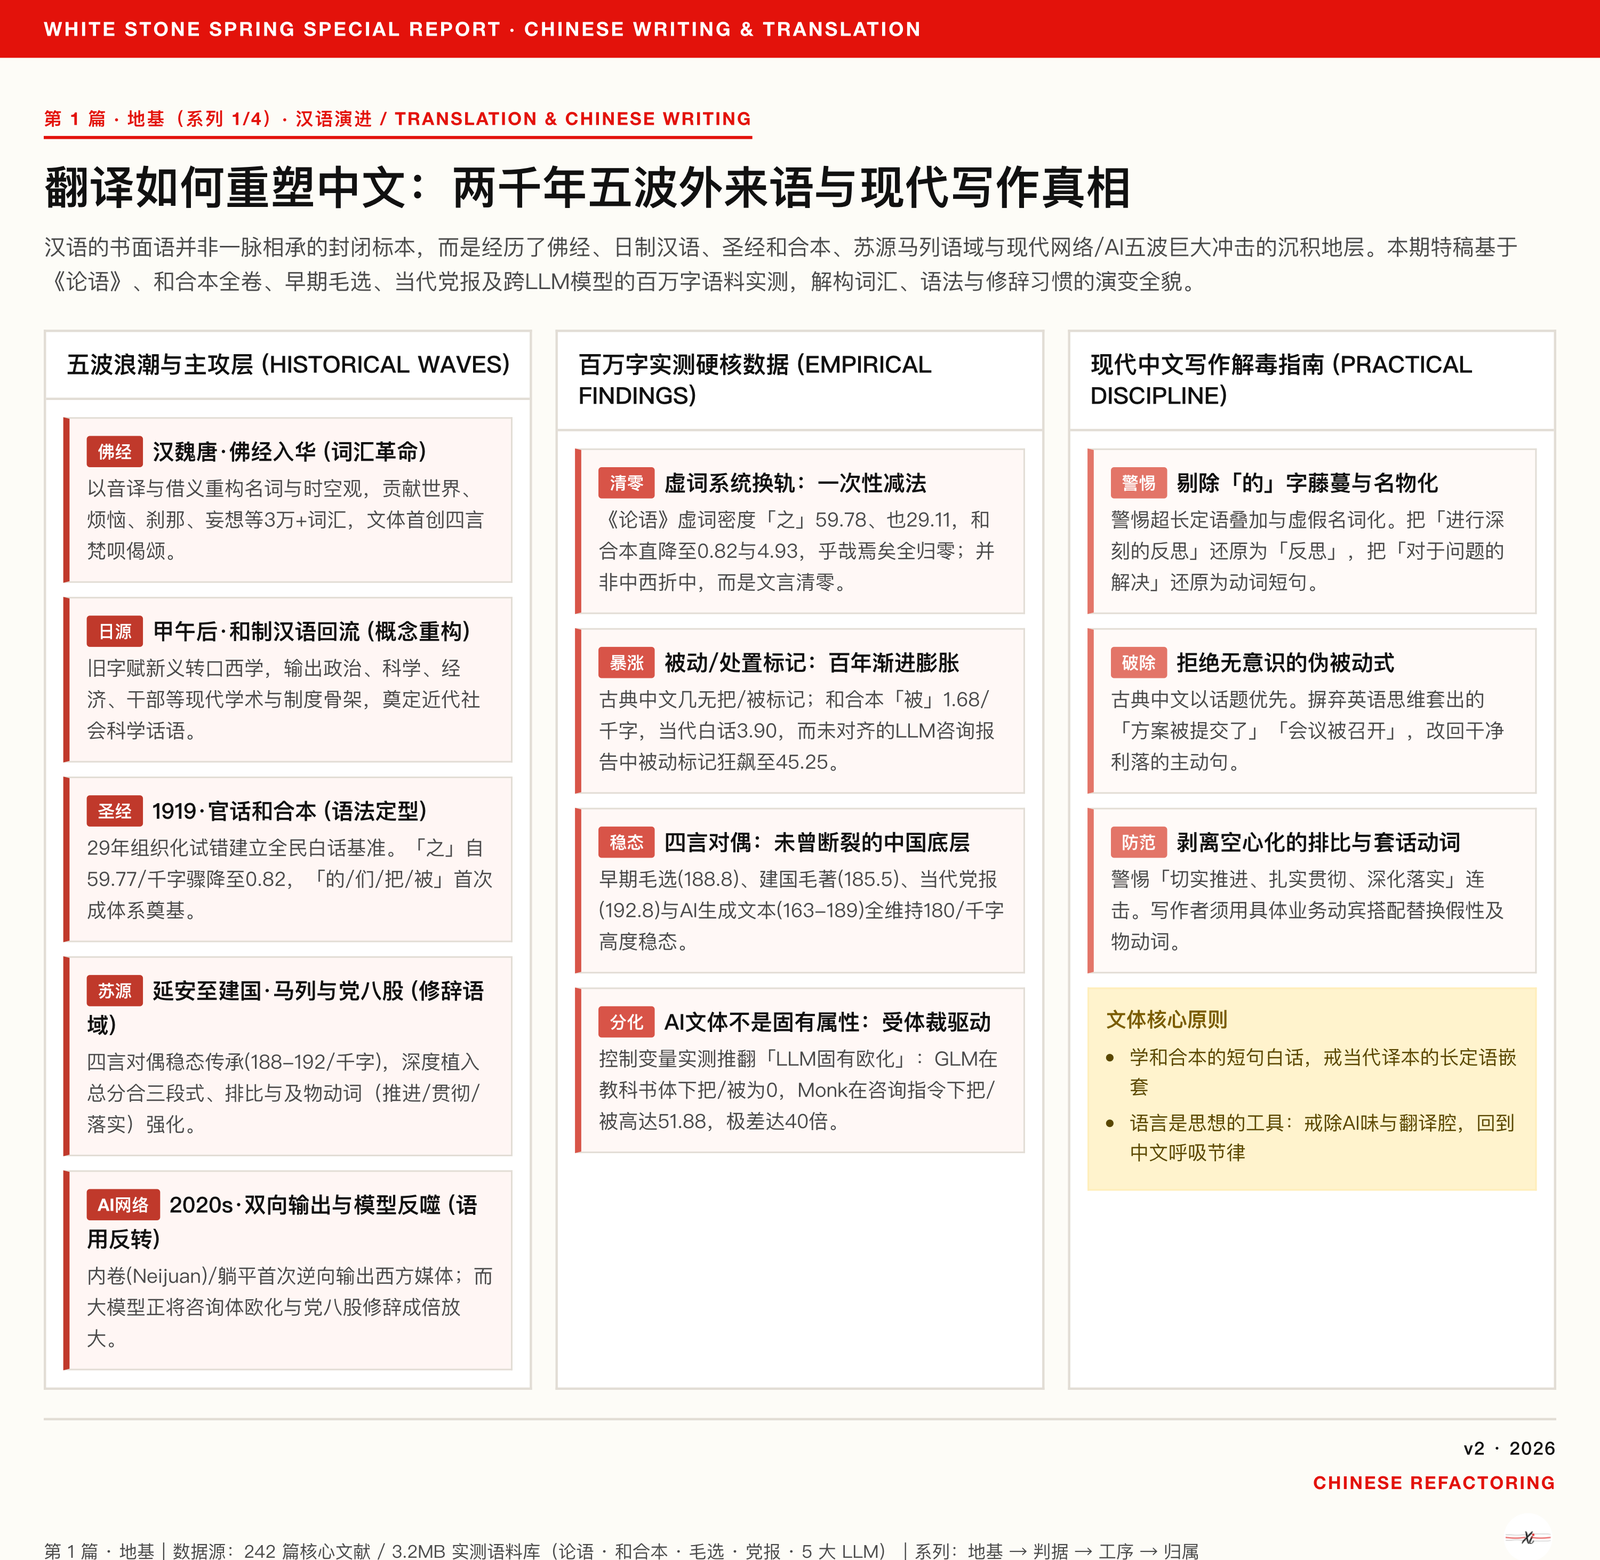
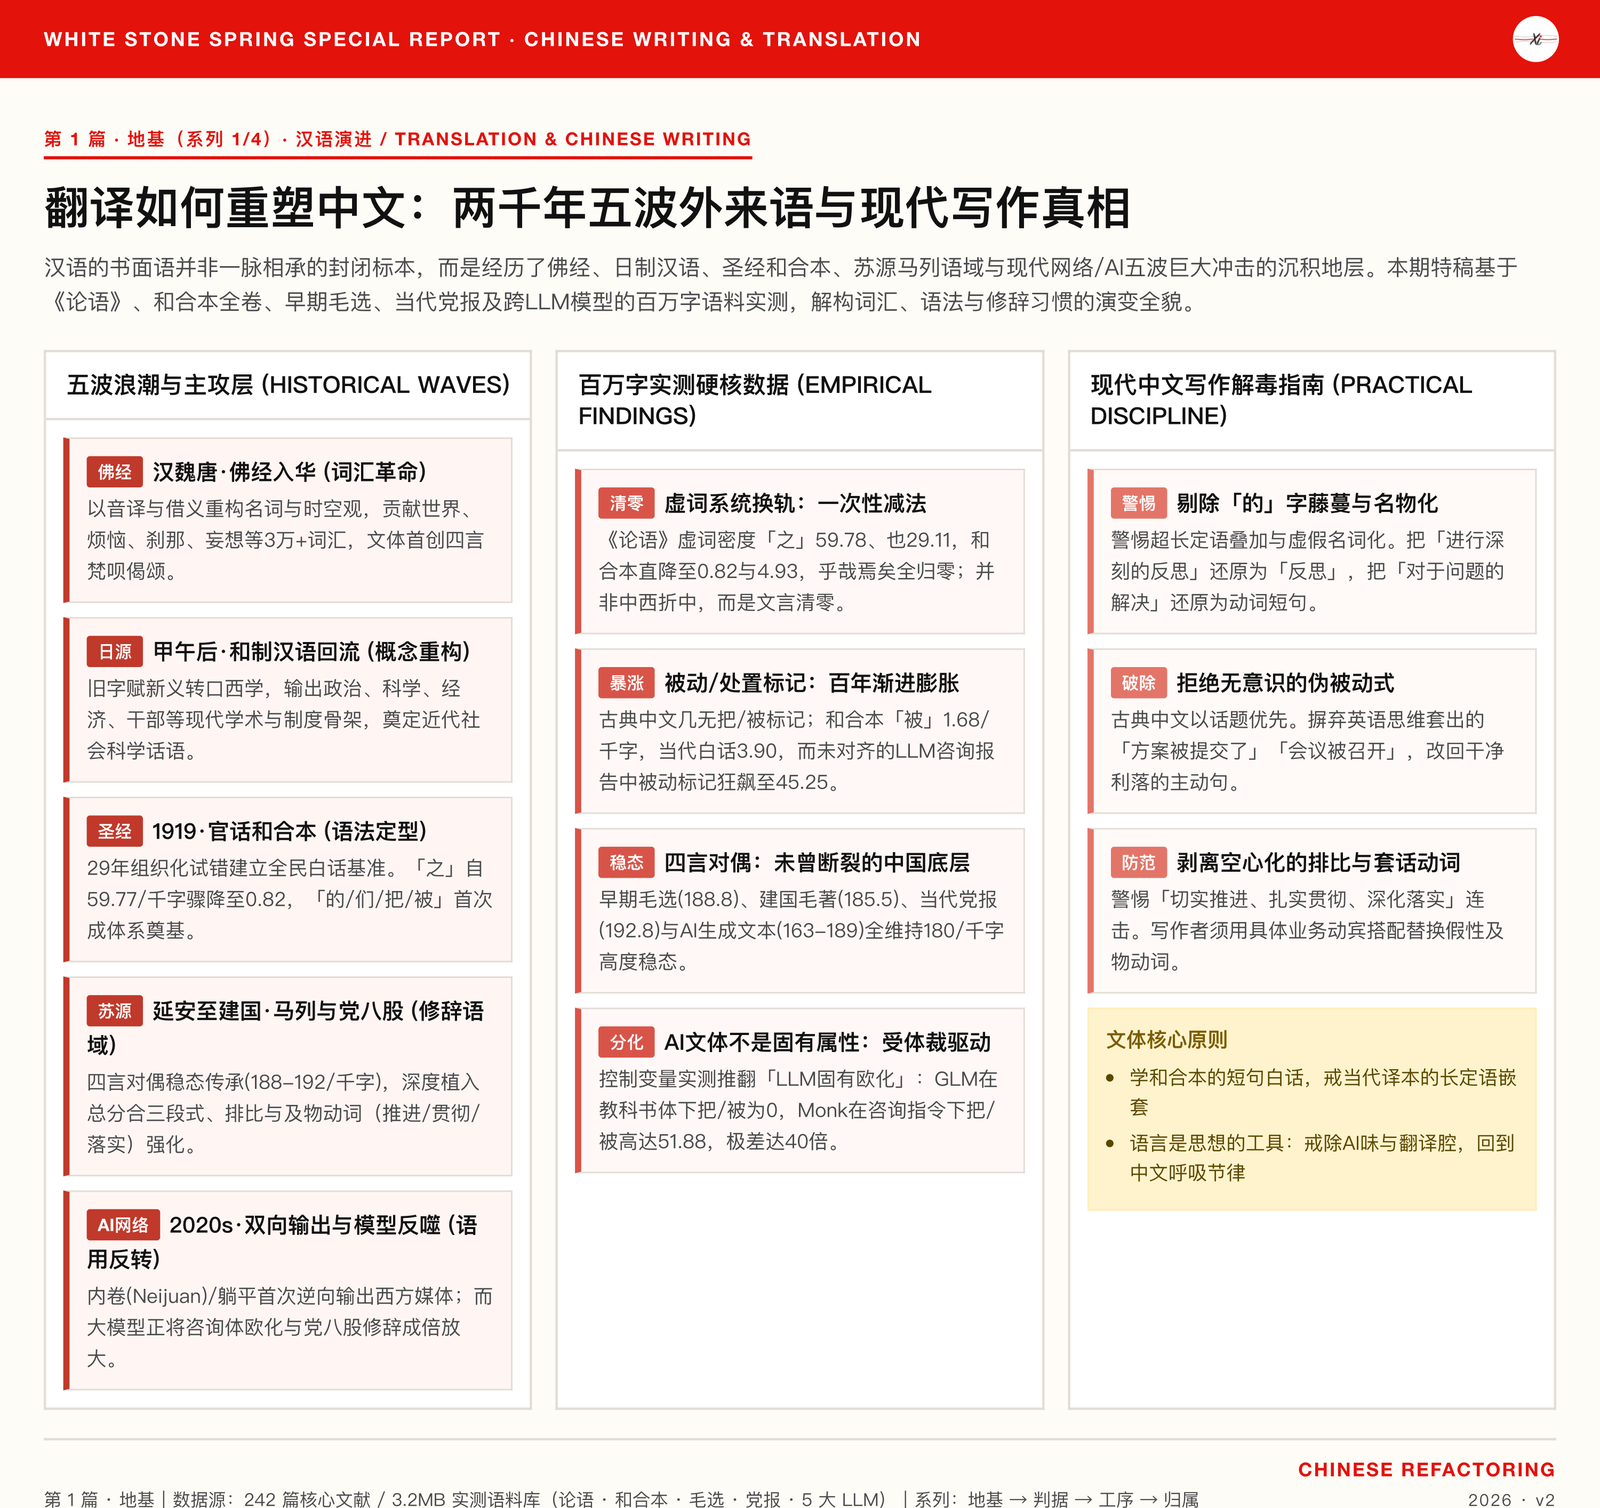
feat(cards): 4 张卡片格式收口终稿
- masthead 最右端：白色圆形印章（墨色 Xi + 红色水波 + 红色 i 点）
- footer 左侧：来源
- footer 右侧两行：stamp（上行粗体主题色）+ 2026 · v2（下行年份+版本号）
- 印章彻底移出 footer
- 重新 build 刷新 cache-bust

Changed region(s): [[0.0, 0.0, 1.0, 0.935], [0.8125, 0.9038, 0.9688, 1.0], [0.625, 0.9038, 0.6875, 0.935]]

diff --git a/articles/写作是学习的发生地_意外连接与开发自己的三道工序.html b/articles/写作是学习的发生地_意外连接与开发自己的三道工序.html
@@ -33,10 +33,10 @@
   </div>
 
   <figure class="card-hero">
-  <a href="../assets/写作是学习的发生地_卡片图.html?v=1790593007" target="_blank" title="点击查看交互卡片">
-    <img src="../assets/写作是学习的发生地_卡片图.png?v=1790593007" alt="写作是学习的发生地：意外连接、知识网络，与开发自己的三道工序 卡片图" loading="lazy">
+  <a href="../assets/写作是学习的发生地_卡片图.html?v=1790594528" target="_blank" title="点击查看交互卡片">
+    <img src="../assets/写作是学习的发生地_卡片图.png?v=1790594528" alt="写作是学习的发生地：意外连接、知识网络，与开发自己的三道工序 卡片图" loading="lazy">
   </a>
-  <figcaption>卡片图 · <a href="../assets/写作是学习的发生地_卡片图.html?v=1790593007" target="_blank">点击查看交互版</a></figcaption>
+  <figcaption>卡片图 · <a href="../assets/写作是学习的发生地_卡片图.html?v=1790594528" target="_blank">点击查看交互版</a></figcaption>
 </figure>
   <div class="article-body">
 <blockquote>

diff --git a/articles/翻译如何重塑中文_两千年来五波外来语与现代写作真相.html b/articles/翻译如何重塑中文_两千年来五波外来语与现代写作真相.html
@@ -33,10 +33,10 @@
   </div>
 
   <figure class="card-hero">
-  <a href="../assets/翻译如何重塑中文_卡片图.html?v=1790593006" target="_blank" title="点击查看交互卡片">
-    <img src="../assets/翻译如何重塑中文_卡片图.png?v=1790593006" alt="翻译如何重塑中文：两千年来五波外来语浪潮，与现代写作的文体真相 卡片图" loading="lazy">
+  <a href="../assets/翻译如何重塑中文_卡片图.html?v=1790594526" target="_blank" title="点击查看交互卡片">
+    <img src="../assets/翻译如何重塑中文_卡片图.png?v=1790594526" alt="翻译如何重塑中文：两千年来五波外来语浪潮，与现代写作的文体真相 卡片图" loading="lazy">
   </a>
-  <figcaption>卡片图 · <a href="../assets/翻译如何重塑中文_卡片图.html?v=1790593006" target="_blank">点击查看交互版</a></figcaption>
+  <figcaption>卡片图 · <a href="../assets/翻译如何重塑中文_卡片图.html?v=1790594526" target="_blank">点击查看交互版</a></figcaption>
 </figure>
   <div class="article-body">
 <hr />

diff --git a/articles/什么是好的中文_十人十策与可执行规范.html b/articles/什么是好的中文_十人十策与可执行规范.html
@@ -33,10 +33,10 @@
   </div>
 
   <figure class="card-hero">
-  <a href="../assets/什么是好的中文_卡片图.html?v=1790593006" target="_blank" title="点击查看交互卡片">
-    <img src="../assets/什么是好的中文_卡片图.png?v=1790593006" alt="什么是好的中文：十位写作者的十条路，与一套可执行的规范 卡片图" loading="lazy">
+  <a href="../assets/什么是好的中文_卡片图.html?v=1790594523" target="_blank" title="点击查看交互卡片">
+    <img src="../assets/什么是好的中文_卡片图.png?v=1790594523" alt="什么是好的中文：十位写作者的十条路，与一套可执行的规范 卡片图" loading="lazy">
   </a>
-  <figcaption>卡片图 · <a href="../assets/什么是好的中文_卡片图.html?v=1790593006" target="_blank">点击查看交互版</a></figcaption>
+  <figcaption>卡片图 · <a href="../assets/什么是好的中文_卡片图.html?v=1790594523" target="_blank">点击查看交互版</a></figcaption>
 </figure>
   <div class="article-body">
 <hr />

diff --git a/articles/AI认知判断力内化与外部化双钢人.html b/articles/AI认知判断力内化与外部化双钢人.html
@@ -33,10 +33,10 @@
   </div>
 
   <figure class="card-hero">
-  <a href="../assets/AI认知判断力_卡片图.html?v=1790593007" target="_blank" title="点击查看交互卡片">
-    <img src="../assets/AI认知判断力_卡片图.png?v=1790593007" alt="AI 时代最大的认知分歧：把判断力焊进脑子，还是写进文件？ 卡片图" loading="lazy">
+  <a href="../assets/AI认知判断力_卡片图.html?v=1790594523" target="_blank" title="点击查看交互卡片">
+    <img src="../assets/AI认知判断力_卡片图.png?v=1790594523" alt="AI 时代最大的认知分歧：把判断力焊进脑子，还是写进文件？ 卡片图" loading="lazy">
   </a>
-  <figcaption>卡片图 · <a href="../assets/AI认知判断力_卡片图.html?v=1790593007" target="_blank">点击查看交互版</a></figcaption>
+  <figcaption>卡片图 · <a href="../assets/AI认知判断力_卡片图.html?v=1790594523" target="_blank">点击查看交互版</a></figcaption>
 </figure>
   <div class="article-body">
 <hr />
